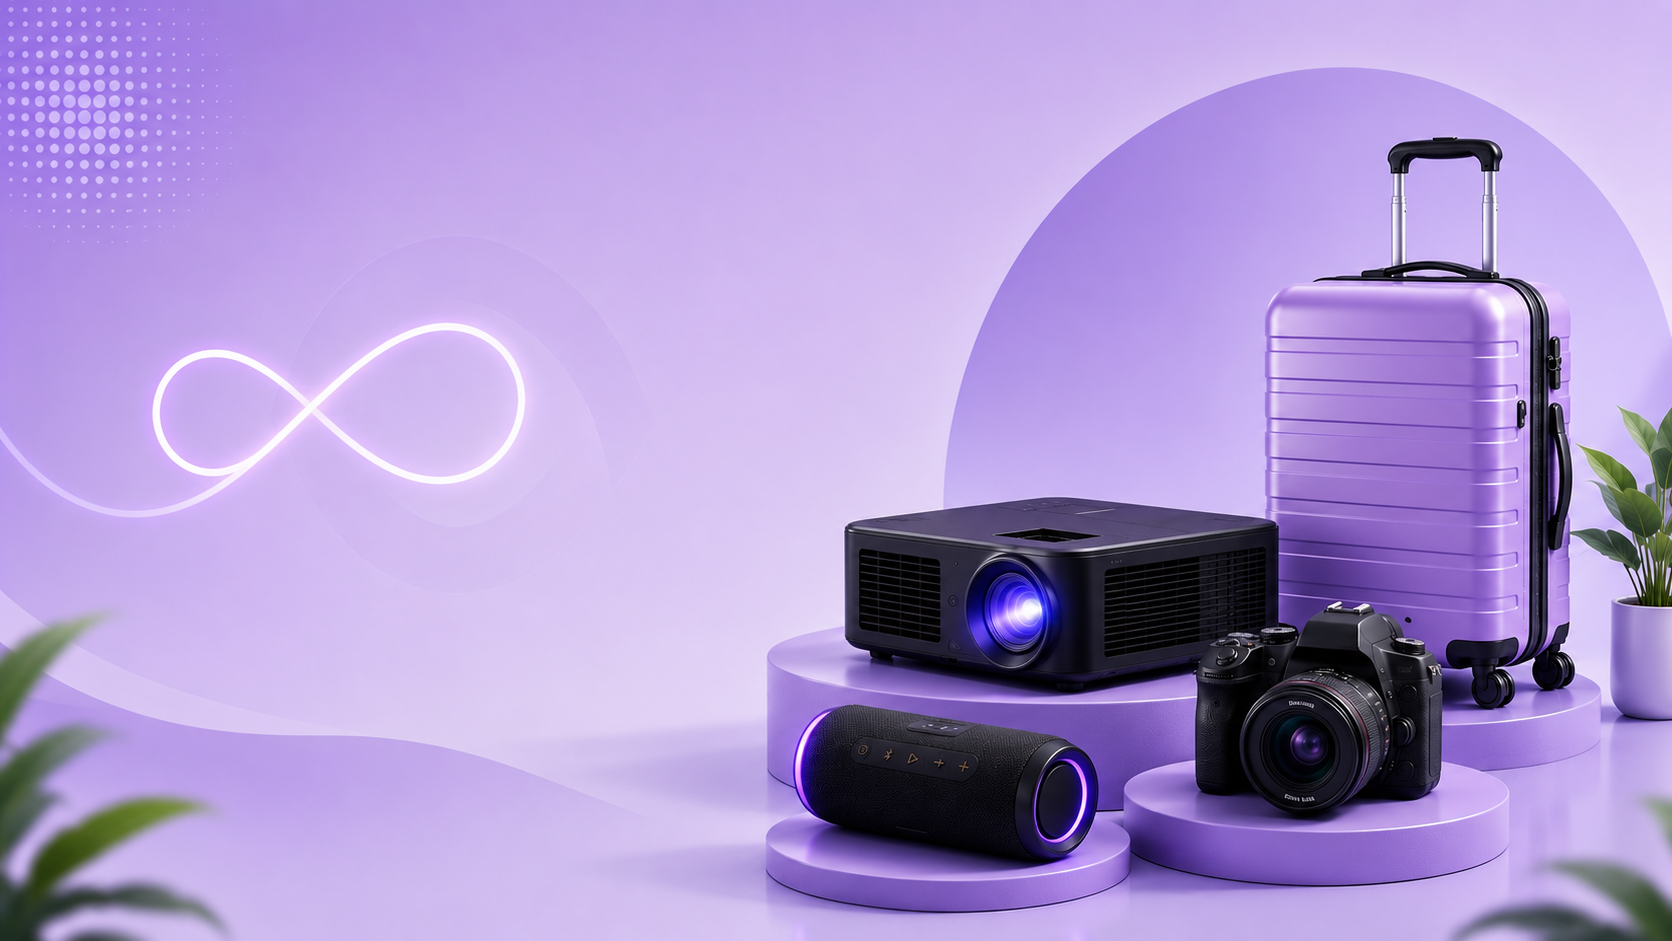
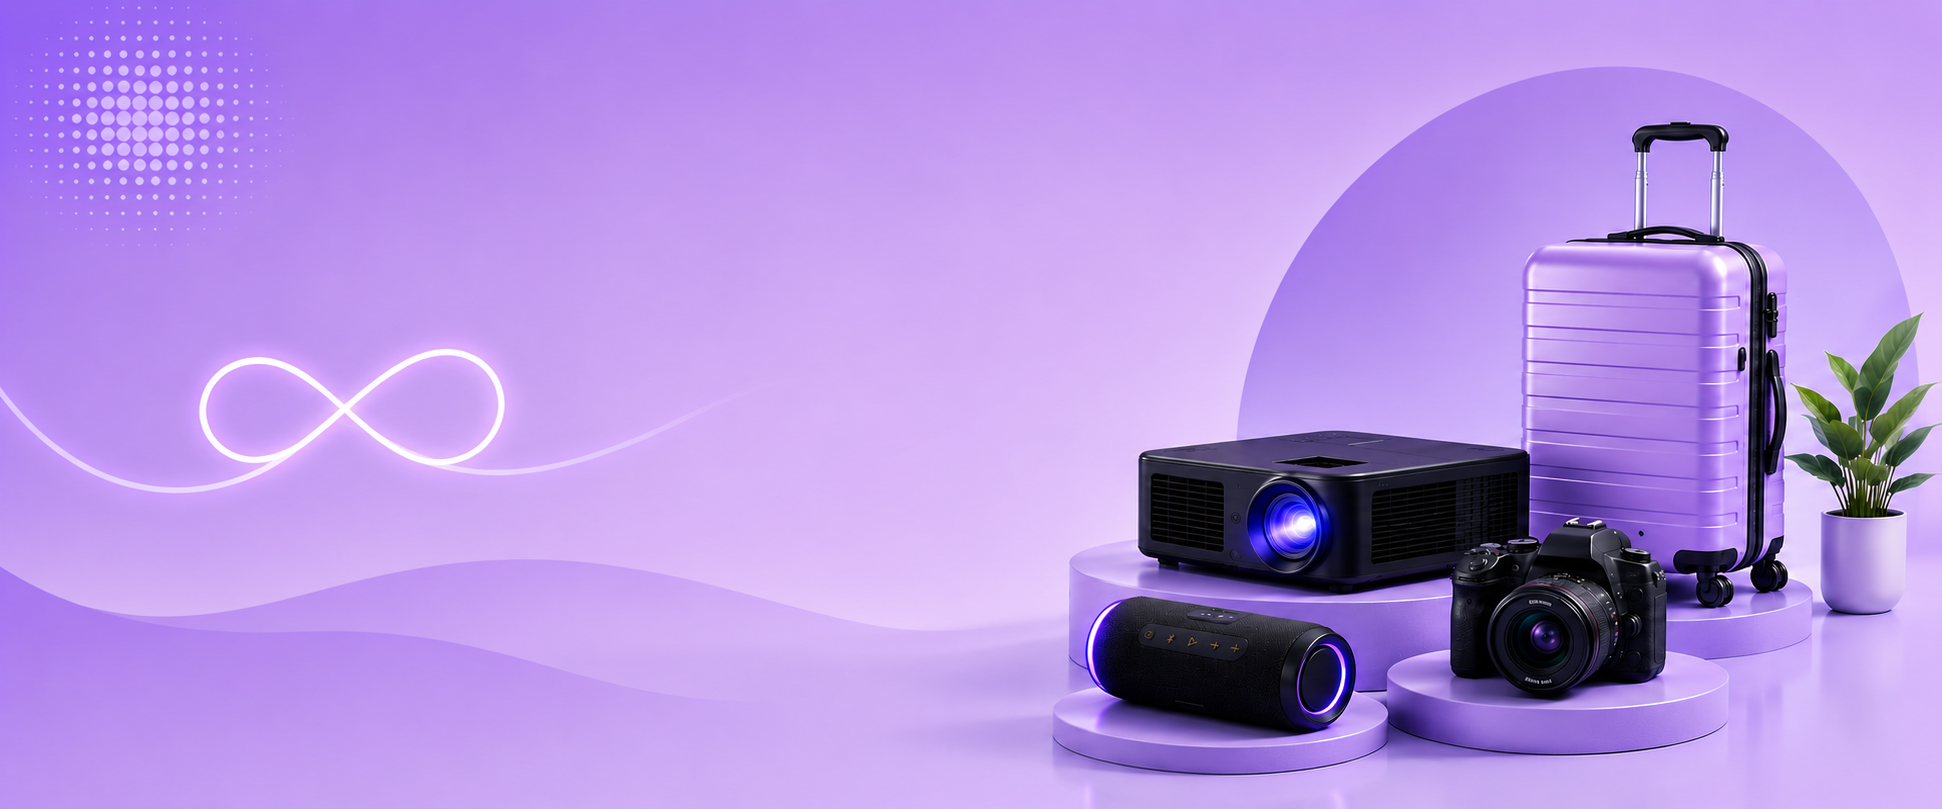
done

diff --git a/src/components/home/HeroSection.jsx b/src/components/home/HeroSection.jsx
@@ -5,24 +5,25 @@ import { ArrowRight, Sparkles } from "lucide-react";
 
 export default function HeroSection() {
   return (
-    <section className="relative isolate overflow-hidden bg-mist dark:bg-[#11071f]">
+    <section className="relative isolate flex min-h-[400px] overflow-hidden bg-mist dark:bg-[#11071f]">
       <div className="absolute inset-0 -z-10 bg-[#ead7ff] dark:bg-[#11071f]">
         <img
           src="/zasoota-home-bg.png"
           alt="Zasoota rent use return product background"
-          className="h-full w-full object-contain object-right opacity-38 dark:opacity-34 md:opacity-70 md:dark:opacity-62"
+          className="h-full w-full object-fill object-center opacity-48 dark:opacity-42 md:object-center md:opacity-88 md:dark:opacity-76"
         />
-        <div className="absolute inset-0 bg-white/32 dark:bg-[#11071f]/42 md:bg-white/18 md:dark:bg-[#11071f]/24" />
+        <div className="absolute inset-0 bg-gradient-to-r from-white/90 via-white/56 to-white/8 dark:from-[#11071f]/92 dark:via-[#11071f]/60 dark:to-[#11071f]/12" />
+        <div className="absolute inset-x-0 bottom-0 h-28 bg-gradient-to-t from-mist via-mist/50 to-transparent dark:from-[#11071f] dark:via-[#11071f]/50" />
       </div>
-      <div className="mx-auto grid max-w-7xl gap-8 px-4 py-10 md:grid-cols-[1.02fr_0.98fr] md:py-14">
-        <div className="animate-rise flex flex-col justify-center rounded-[1.75rem] bg-white/50 p-4 shadow-sm backdrop-blur-sm dark:bg-[#11071f]/50 md:bg-transparent md:p-0 md:shadow-none md:backdrop-blur-0 md:dark:bg-transparent">
+      <div className="mx-auto grid w-full max-w-7xl items-center gap-8 px-4 py-14 md:grid-cols-[1.02fr_0.98fr] md:py-16">
+        <div className="animate-rise flex flex-col justify-center">
           <p className="inline-flex w-fit items-center gap-2 rounded-full border border-violet-200 bg-white/75 px-3 py-1 text-xs font-black uppercase tracking-wide text-meadow shadow-sm backdrop-blur dark:border-violet-800 dark:bg-white/10 dark:text-violet-100">
             <Sparkles className="h-4 w-4" /> Zasoota
           </p>
-          <h1 className="mt-5 max-w-3xl text-5xl font-black leading-[1.02] text-ink drop-shadow-sm dark:text-stone-50 md:text-7xl">
+          <h1 className="mt-5 max-w-3xl text-5xl font-black leading-[1.02] text-ink drop-shadow-[0_2px_16px_rgba(255,255,255,0.78)] dark:text-stone-50 dark:drop-shadow-[0_2px_18px_rgba(17,7,31,0.9)] md:text-7xl">
             Access Over Ownership
           </h1>
-          <p className="mt-5 max-w-2xl text-lg font-semibold leading-8 text-violet-950/78 dark:text-violet-100/86 md:font-normal">
+          <p className="mt-5 max-w-2xl rounded-2xl bg-white/35 p-3 text-lg font-semibold leading-8 text-violet-950/86 shadow-sm backdrop-blur-[2px] dark:bg-[#11071f]/35 dark:text-violet-100/90 md:bg-transparent md:p-0 md:shadow-none md:backdrop-blur-0 md:font-normal">
             Rent projectors, speakers, cameras, luggage, fashion and more — delivered to your doorstep.
           </p>
           <div className="mt-7 flex flex-wrap gap-3">
